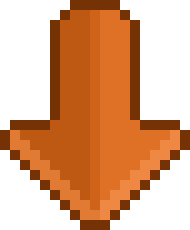
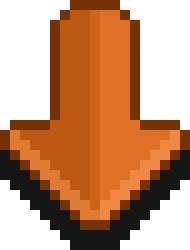
Animation boutons
De jolies animations toutes jolies oui

Changed region(s): [[0.0, 0.4565, 1.0, 1.0], [0.2632, 0.0304, 0.7368, 0.0913]]

diff --git a/templates/anarchy.html b/templates/anarchy.html
@@ -20,7 +20,7 @@
                 <!--TD UP-->
                 <td align=center>
                     <div>
-                        <button name="controller" value="up" id="up"><img src="/static/pics/arrow_up.png" alt="up"/></button>
+                        <button name="controller" value="up" id="up"><img src="/static/pics/arrow_up.png" alt="up" ontouchstart="this.src='/static/pics/arrow_up_pressed.png'" ontouchend="this.src='/static/pics/arrow_up.png'" onmouseover="this.src='/static/pics/arrow_up_pressed.png'" onmouseout="this.src='/static/pics/arrow_up.png'"/></button>
                         <!--<label for="up">Up</label>-->
                     </div>
                 </td>
@@ -30,7 +30,7 @@
                 <!--TD LEFT-->
                 <td align=right width="40%">
                     <div>
-                        <button name="controller" value="left" id="left"><img src="/static/pics/arrow_left.png" alt="left"/></button>
+                        <button name="controller" value="left" id="left"><img src="/static/pics/arrow_left.png" ontouchstart="this.src='/static/pics/arrow_left_pressed.png'" ontouchend="this.src='/static/pics/arrow_left.png'" onmouseover="this.src='/static/pics/arrow_left_pressed.png'" onmouseout="this.src='/static/pics/arrow_left.png'" alt="left"/></button>
                         <!--<label for="left">Left</label>-->
                     </div>
                 </td>
@@ -38,7 +38,7 @@
                 <!--TD RIGHT-->
                 <td width="40%">
                     <div>
-                        <button name="controller" value="right" id="right"><img src="/static/pics/arrow_right.png" alt="right"/></button>
+                        <button name="controller" value="right" id="right"><img src="/static/pics/arrow_right.png" ontouchstart="this.src='/static/pics/arrow_right_pressed.png'" ontouchend="this.src='/static/pics/arrow_right.png'" onmouseover="this.src='/static/pics/arrow_right_pressed.png'" onmouseout="this.src='/static/pics/arrow_right.png'" alt="right"/></button>
                         <!--<label for="right">Right</label>-->
                     </div>
                 </td>
@@ -48,7 +48,7 @@
                 <!--TD DOWN-->
                 <td align=center>
                     <div>
-                        <button name="controller" value="down" id="down"><img src="/static/pics/arrow_down.png" alt="down"/></button>
+                        <button name="controller" value="down" id="down"><img src="/static/pics/arrow_down.png" ontouchstart="this.src='/static/pics/arrow_down_pressed.png'" ontouchend="this.src='/static/pics/arrow_down.png'" onmouseover="this.src='/static/pics/arrow_down_pressed.png'" onmouseout="this.src='/static/pics/arrow_down.png'" alt="down"/></button>
                         <!--<label for= "down">Down</label> -->
                     </div>
                 </td>
@@ -60,14 +60,14 @@
                 <!--TD A-->
                 <td align=center>
                     <div>
-                        <button name="controller" value="a" id="a"><img src="/static/pics/Abutton_big.png" alt="a"/></button>
+                        <button name="controller" value="a" id="a"><img src="/static/pics/Abutton.png" ontouchstart="this.src='/static/pics/Abutton_pressed.png'" ontouchend="this.src='/static/pics/Abutton.png'" onmouseover="this.src='/static/pics/Abutton_pressed.png'" onmouseout="this.src='/static/pics/Abutton.png'" alt="a"/></button>
                         <!--<label for="a">A</label>-->
                     </div>
                 </td>
                 <!--TD B-->
                 <td align=center>
                     <div>
-                        <button name="controller" value="b" id="b"><img src="/static/pics/Bbutton_big.png" alt="b"/></button>
+                        <button name="controller" value="b" id="b"><img src="/static/pics/Bbutton.png" ontouchstart="this.src='/static/pics/Bbutton_pressed.png'" ontouchend="this.src='/static/pics/Bbutton.png'" onmouseover="this.src='/static/pics/Bbutton_pressed.png'" onmouseout="this.src='/static/pics/Bbutton.png'" alt="b"/></button>
                         <!--<label for="b">B</label>-->
                     </div>
                 </td>

diff --git a/templates/democracy.html b/templates/democracy.html
@@ -20,7 +20,7 @@
                 <!--TD UP-->
                 <td align=center>
                     <div>
-                        <button name="controller" value="up" id="up"><img src="/static/pics/arrow_up.png" alt="up"/></button>
+                        <button name="controller" value="up" id="up"><img src="/static/pics/arrow_up.png" alt="up" ontouchstart="this.src='/static/pics/arrow_up_pressed.png'" ontouchend="this.src='/static/pics/arrow_up.png'" onmouseover="this.src='/static/pics/arrow_up_pressed.png'" onmouseout="this.src='/static/pics/arrow_up.png'"/></button>
                         <!--<label for="up">Up</label>-->
                     </div>
                 </td>
@@ -30,7 +30,7 @@
                 <!--TD LEFT-->
                 <td align=right width="40%">
                     <div>
-                        <button name="controller" value="left" id="left"><img src="/static/pics/arrow_left.png" alt="left"/></button>
+                        <button name="controller" value="left" id="left"><img src="/static/pics/arrow_left.png" ontouchstart="this.src='/static/pics/arrow_left_pressed.png'" ontouchend="this.src='/static/pics/arrow_left.png'" onmouseover="this.src='/static/pics/arrow_left_pressed.png'" onmouseout="this.src='/static/pics/arrow_left.png'" alt="left"/></button>
                         <!--<label for="left">Left</label>-->
                     </div>
                 </td>
@@ -38,7 +38,7 @@
                 <!--TD RIGHT-->
                 <td width="40%">
                     <div>
-                        <button name="controller" value="right" id="right"><img src="/static/pics/arrow_right.png" alt="right"/></button>
+                        <button name="controller" value="right" id="right"><img src="/static/pics/arrow_right.png" ontouchstart="this.src='/static/pics/arrow_right_pressed.png'" ontouchend="this.src='/static/pics/arrow_right.png'" onmouseover="this.src='/static/pics/arrow_right_pressed.png'" onmouseout="this.src='/static/pics/arrow_right.png'" alt="right"/></button>
                         <!--<label for="right">Right</label>-->
                     </div>
                 </td>
@@ -48,7 +48,7 @@
                 <!--TD DOWN-->
                 <td align=center>
                     <div>
-                        <button name="controller" value="down" id="down"><img src="/static/pics/arrow_down.png" alt="down"/></button>
+                        <button name="controller" value="down" id="down"><img src="/static/pics/arrow_down.png" ontouchstart="this.src='/static/pics/arrow_down_pressed.png'" ontouchend="this.src='/static/pics/arrow_down.png'" onmouseover="this.src='/static/pics/arrow_down_pressed.png'" onmouseout="this.src='/static/pics/arrow_down.png'" alt="down"/></button>
                         <!--<label for= "down">Down</label> -->
                     </div>
                 </td>
@@ -60,14 +60,14 @@
                 <!--TD A-->
                 <td align=center>
                     <div>
-                        <button name="controller" value="a" id="a"><img src="/static/pics/Abutton_big.png" alt="a"/></button>
+                        <button name="controller" value="a" id="a"><img src="/static/pics/Abutton.png" ontouchstart="this.src='/static/pics/Abutton_pressed.png'" ontouchend="this.src='/static/pics/Abutton.png'" onmouseover="this.src='/static/pics/Abutton_pressed.png'" onmouseout="this.src='/static/pics/Abutton.png'" alt="a"/></button>
                         <!--<label for="a">A</label>-->
                     </div>
                 </td>
                 <!--TD B-->
                 <td align=center>
                     <div>
-                        <button name="controller" value="b" id="b"><img src="/static/pics/Bbutton_big.png" alt="b"/></button>
+                        <button name="controller" value="b" id="b"><img src="/static/pics/Bbutton.png" ontouchstart="this.src='/static/pics/Bbutton_pressed.png'" ontouchend="this.src='/static/pics/Bbutton.png'" onmouseover="this.src='/static/pics/Bbutton_pressed.png'" onmouseout="this.src='/static/pics/Bbutton.png'" alt="b"/></button>
                         <!--<label for="b">B</label>-->
                     </div>
                 </td>

diff --git a/templates/index.html b/templates/index.html
@@ -10,12 +10,12 @@
     <form action="/" method="POST">
 
         <div width="100%" align=center>
-            <button name="mode" value="democracy" id="demo"><img src="/static/pics/democracyBtn.png" alt="democracy"/></button>
+            <button name="mode" value="democracy" id="demo"><img src="/static/pics/democracyBtn.png" ontouchstart="this.src='/static/pics/democracy_pressed.png'" ontouchend="this.src='/static/pics/democracyBtn.png'" onmouseover="this.src='/static/pics/democracy_pressed.png'" onmouseout="this.src='/static/pics/democracyBtn.png'" alt="democracy"/></button>
             <!--<label for="demo">Democratie</label>-->
         </div>
         <br>
         <div width="100%" align=center>
-            <button name="mode" value="anarchy" id="anar"><img src="/static/pics/anarchyBtn.png" alt="anarchy"/></button>
+            <button name="mode" value="anarchy" id="anar"><img src="/static/pics/anarchyBtn.png" ontouchstart="this.src='/static/pics/anarchy_pressed.png'" ontouchend="this.src='/static/pics/anarchyBtn.png'" onmouseover="this.src='/static/pics/anarchy_pressed.png'" onmouseout="this.src='/static/pics/anarchyBtn.png'" alt="anarchy"/></button>
             <!--<label for= "anar">Anarchie</label> -->
         </div>
     </form>
